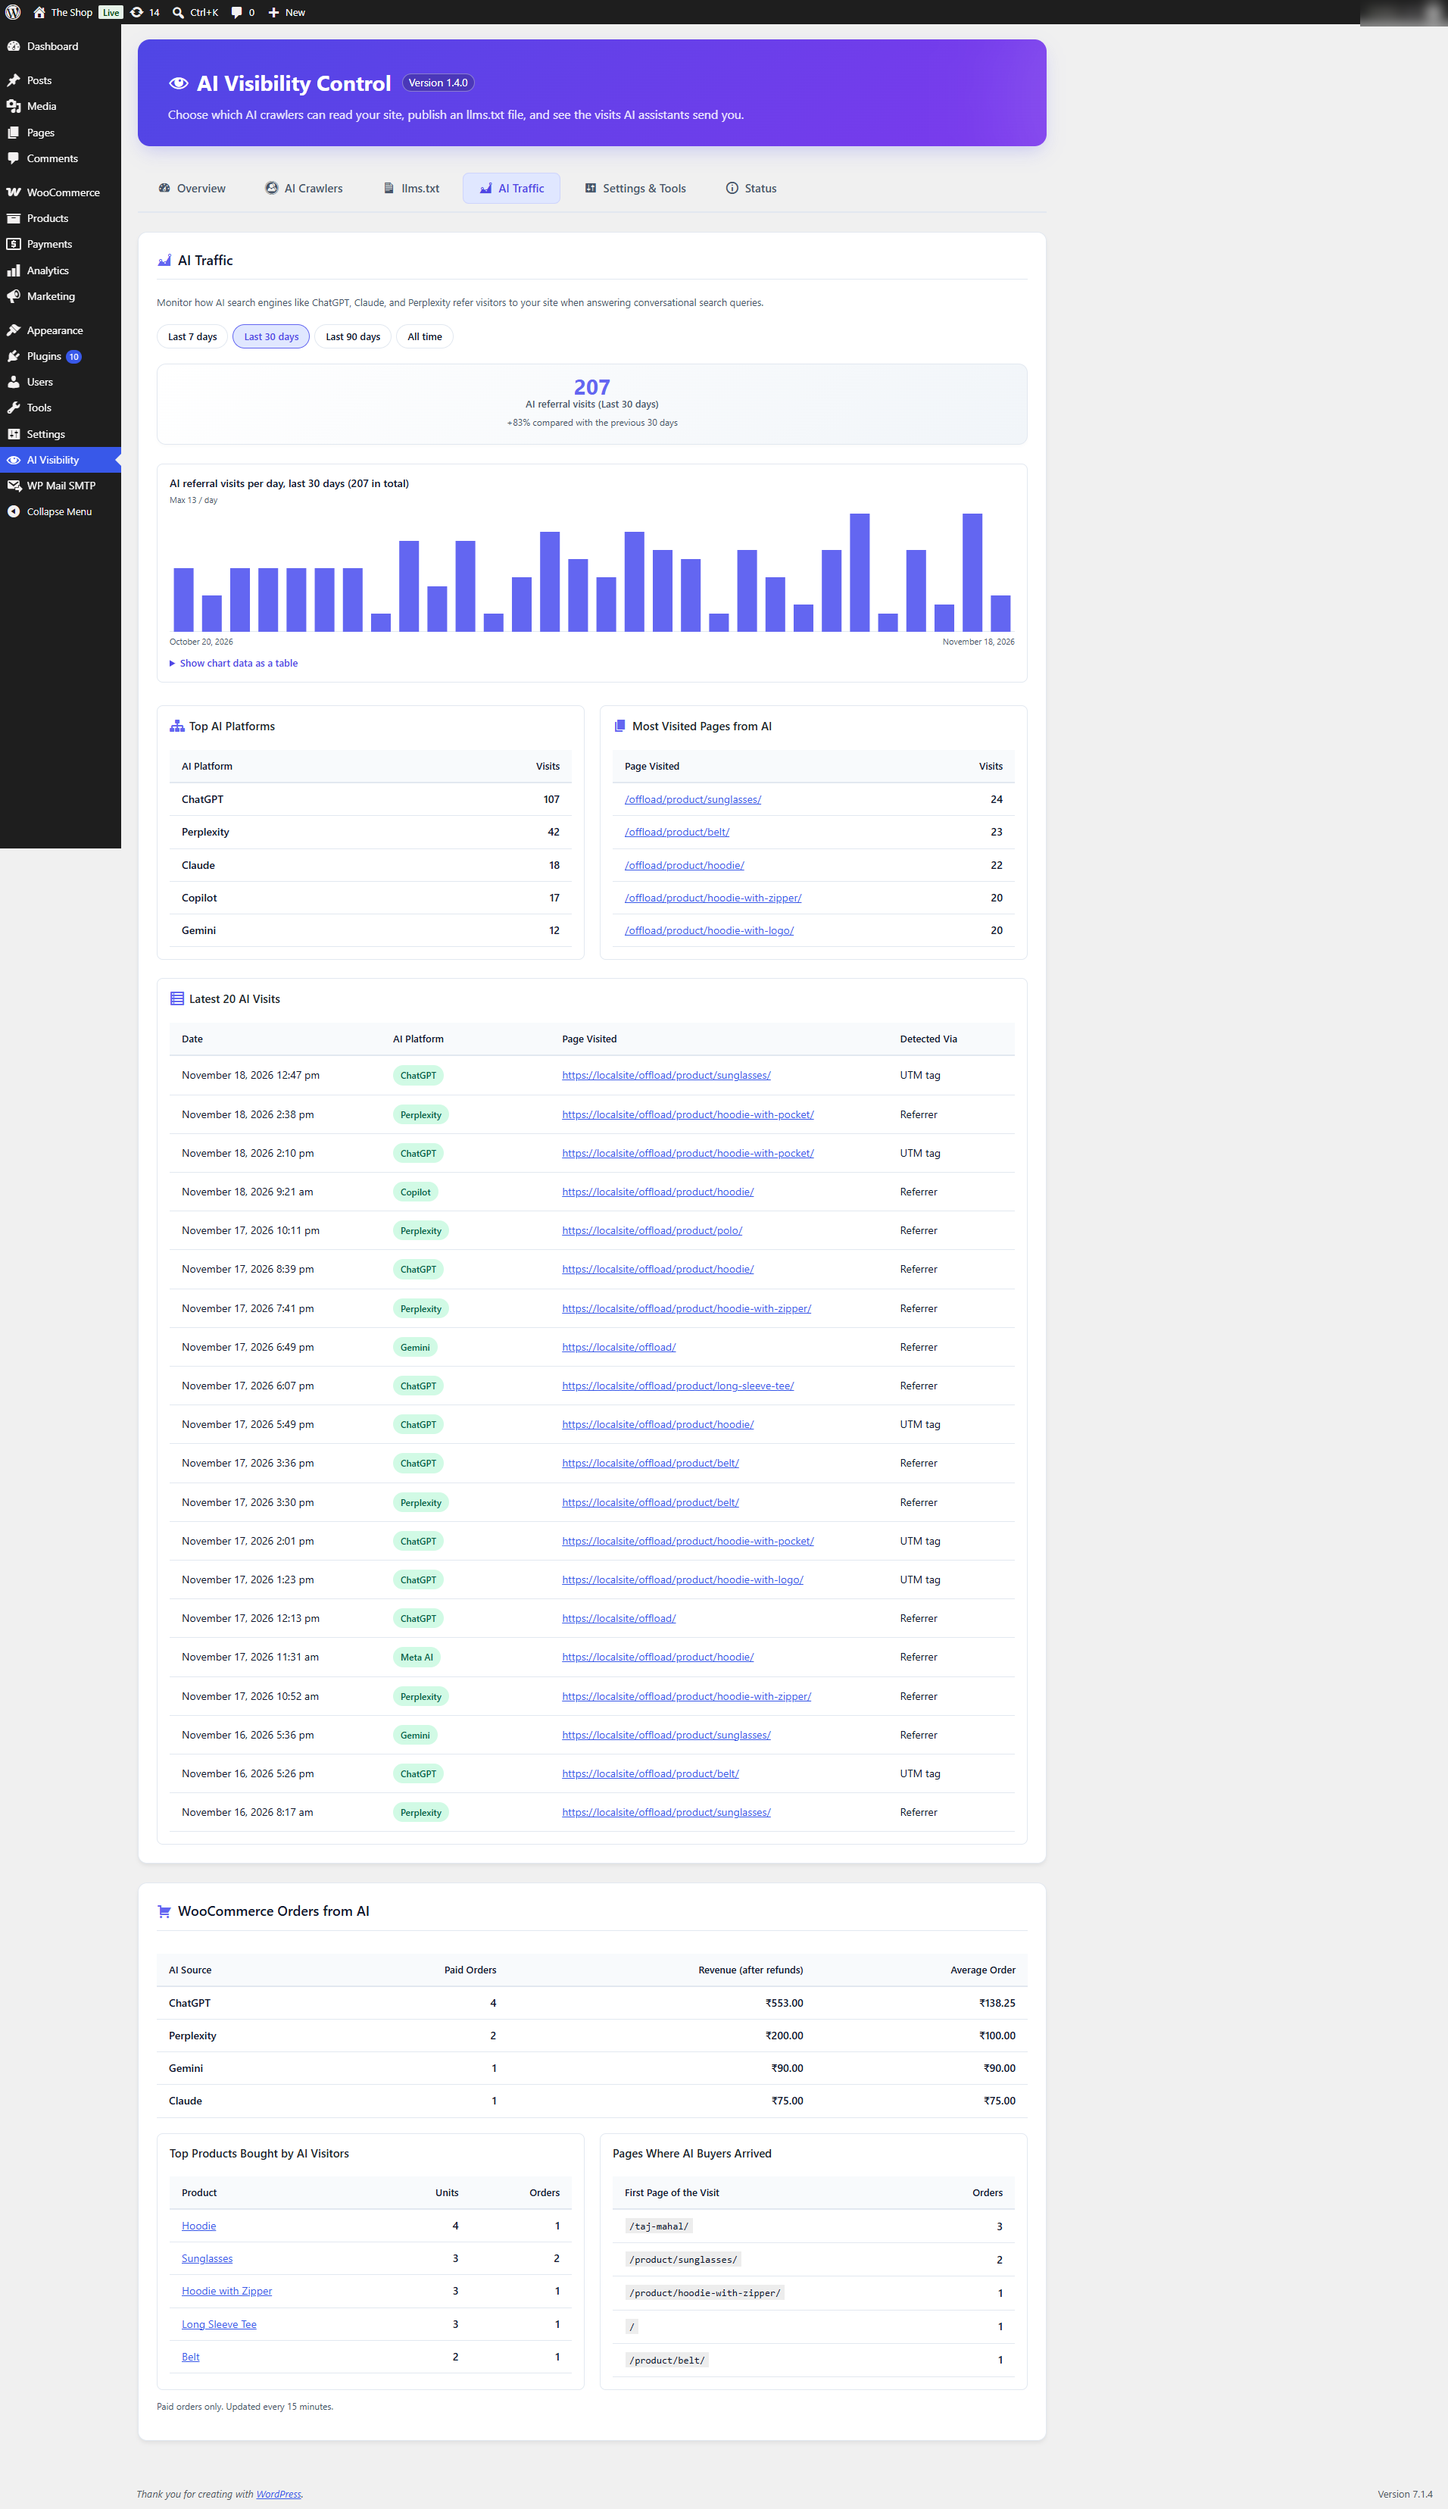
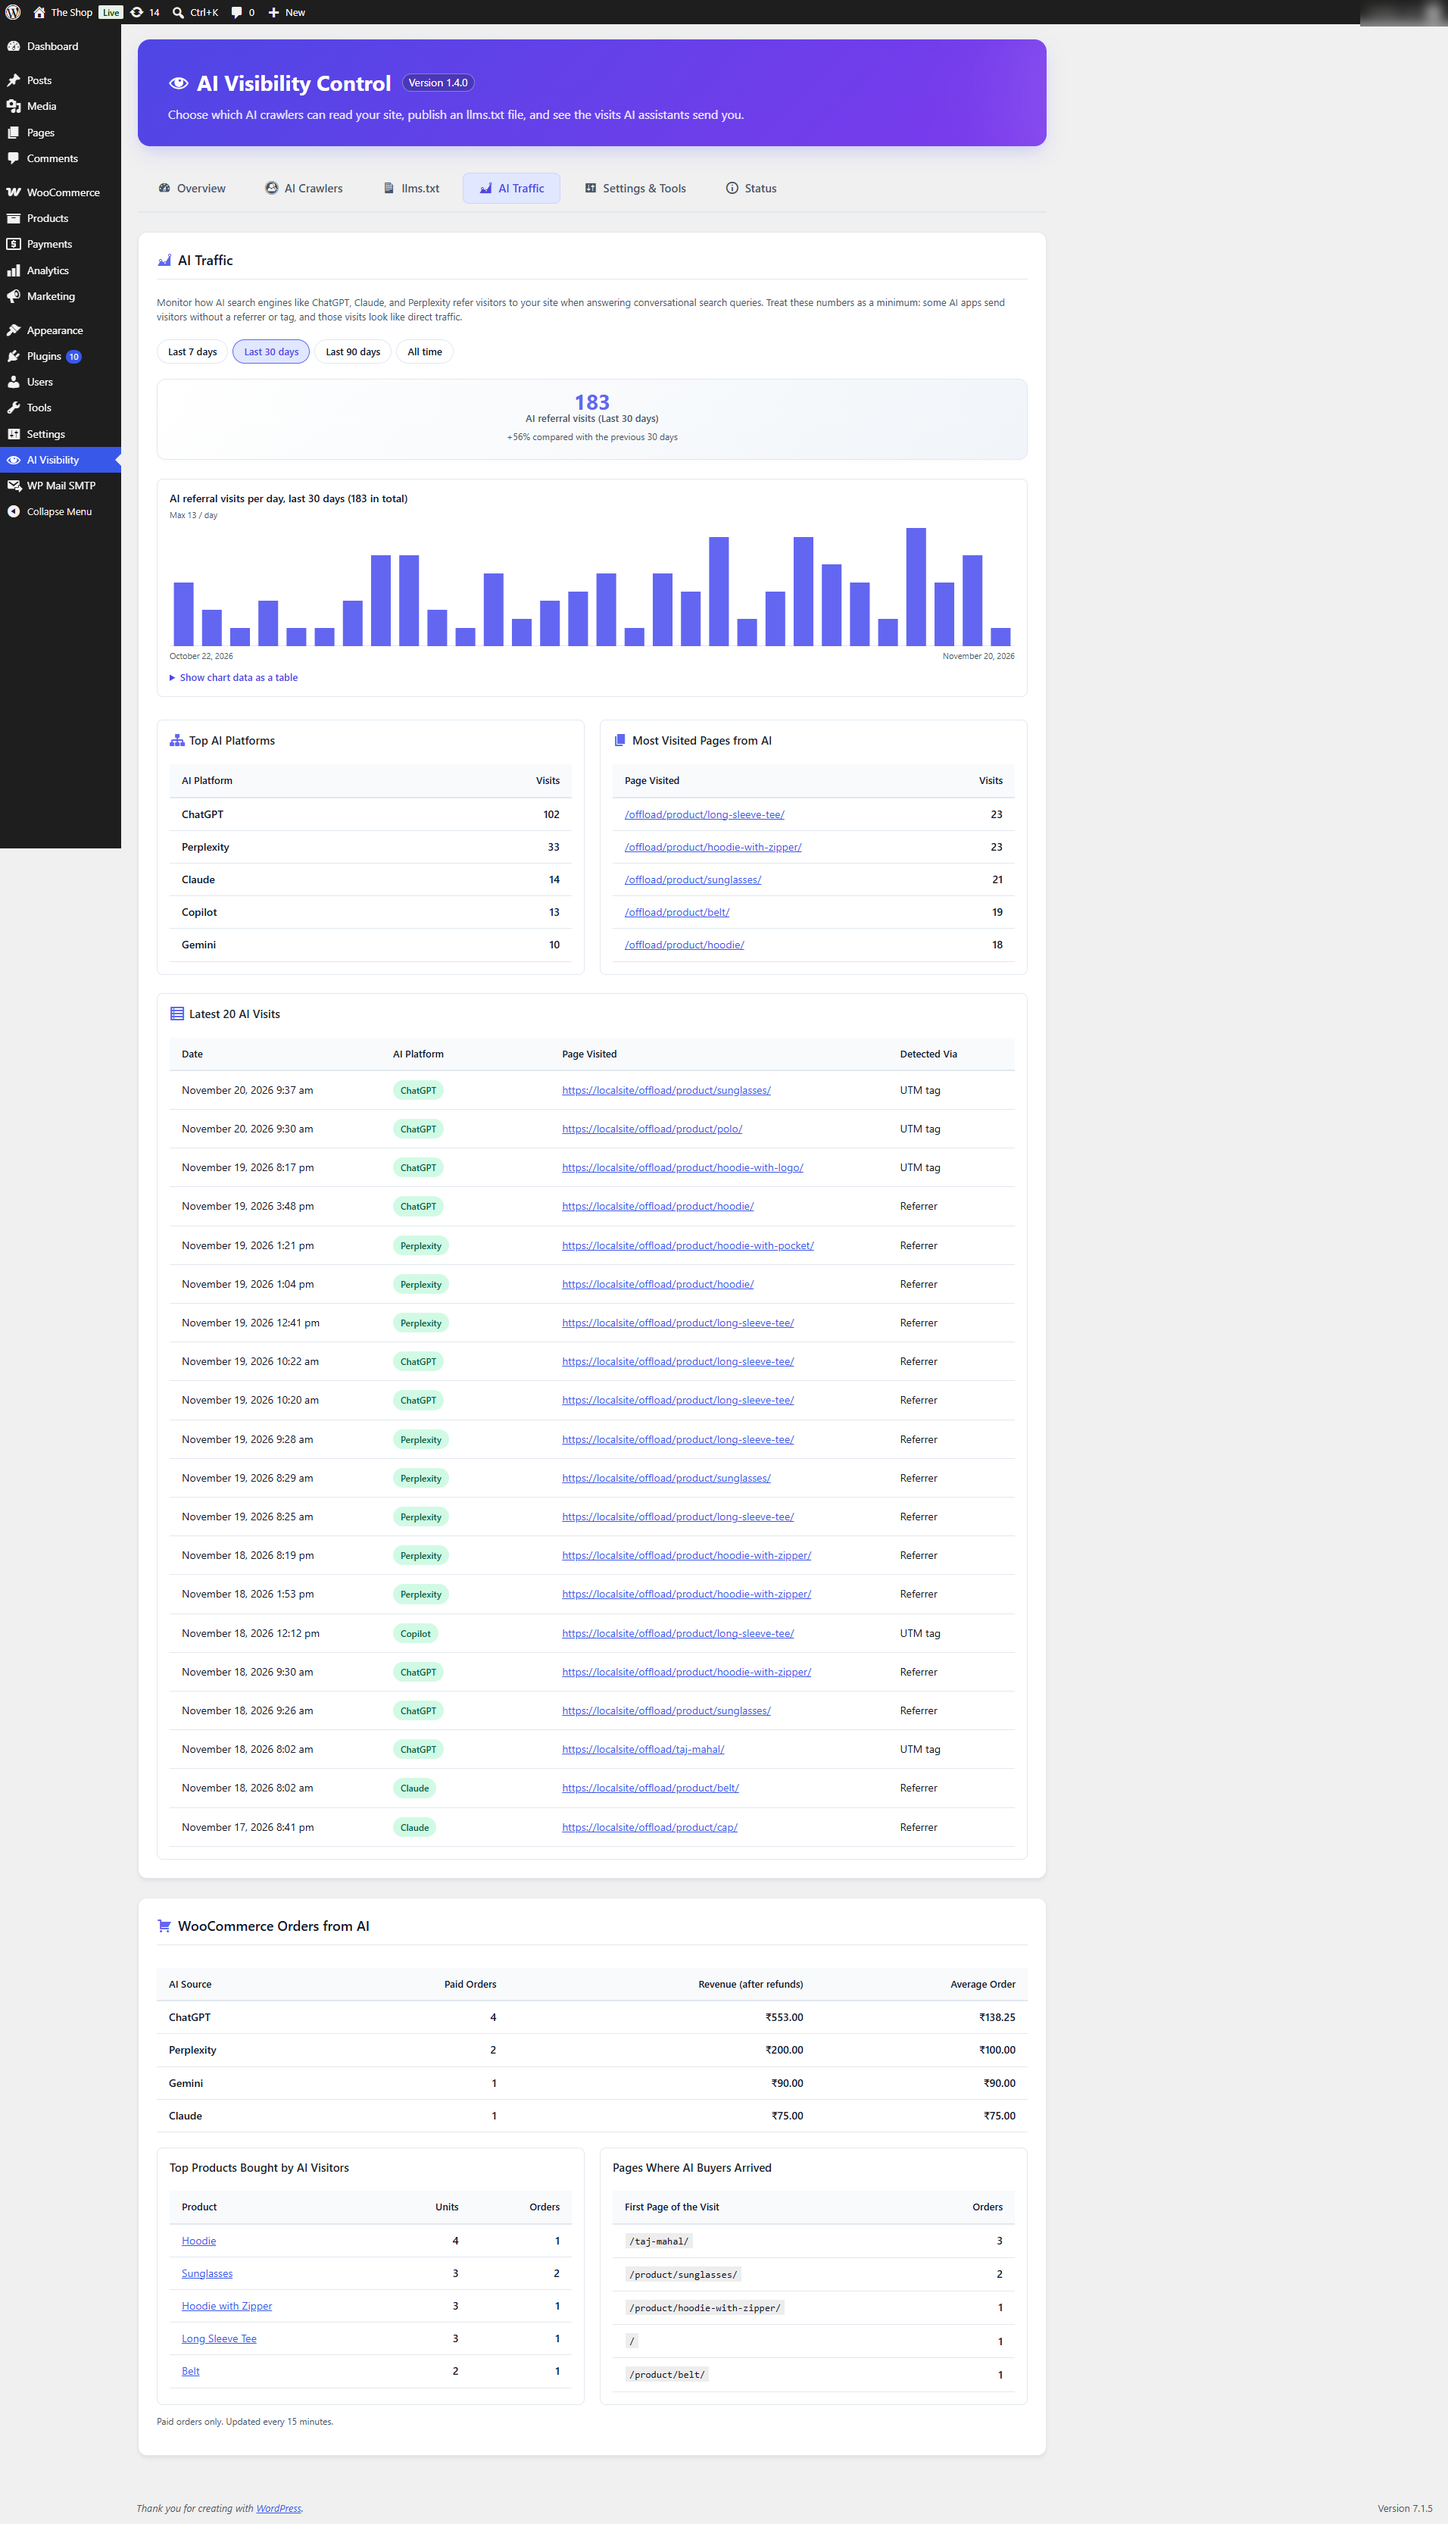
Retake screenshots for 1.4.0, update captions, fix rate limit help text
- New WordPress.org screenshots showing the current admin: 26 crawlers,
  crawler enforcement and rate limit, Markdown links in llms.txt and the
  Help & Support card. Account name and admin email are blurred.
- Screenshot captions (used as alt text on WordPress.org) describe each
  screen as it is now.
- Fix: the rate limit help on the AI Crawlers tab showed "crawler\x27s"
  because the escape was written in a single-quoted string.

diff --git a/admin/partials/tavc-admin-bots.php b/admin/partials/tavc-admin-bots.php
@@ -244,7 +244,7 @@ foreach ( $tavc_crawler_summary as $tavc_activity ) {
 				<?php endforeach; ?>
 			</select>
 			<p class="tavc-field-help" id="tavc_rate_limit_help">
-				<?php esc_html_e( 'Requests above the limit get a "429 Too Many Requests" response asking the crawler to slow down; well-behaved crawlers retry later. Each AI training and search crawler is counted separately for each network it connects from, so a fake crawler cannot use up the real crawler\x27s limit. User-requested fetchers such as ChatGPT-User are never limited, because a person is waiting for the answer.', 'tbsh-ai-visibility-control' ); ?>
+				<?php esc_html_e( 'Requests above the limit get a "429 Too Many Requests" response asking the crawler to slow down; well-behaved crawlers retry later. Each AI training and search crawler is counted separately for each network it connects from, so a fake crawler cannot use up the real crawler\'s limit. User-requested fetchers such as ChatGPT-User are never limited, because a person is waiting for the answer.', 'tbsh-ai-visibility-control' ); ?>
 			</p>
 		</fieldset>
 
